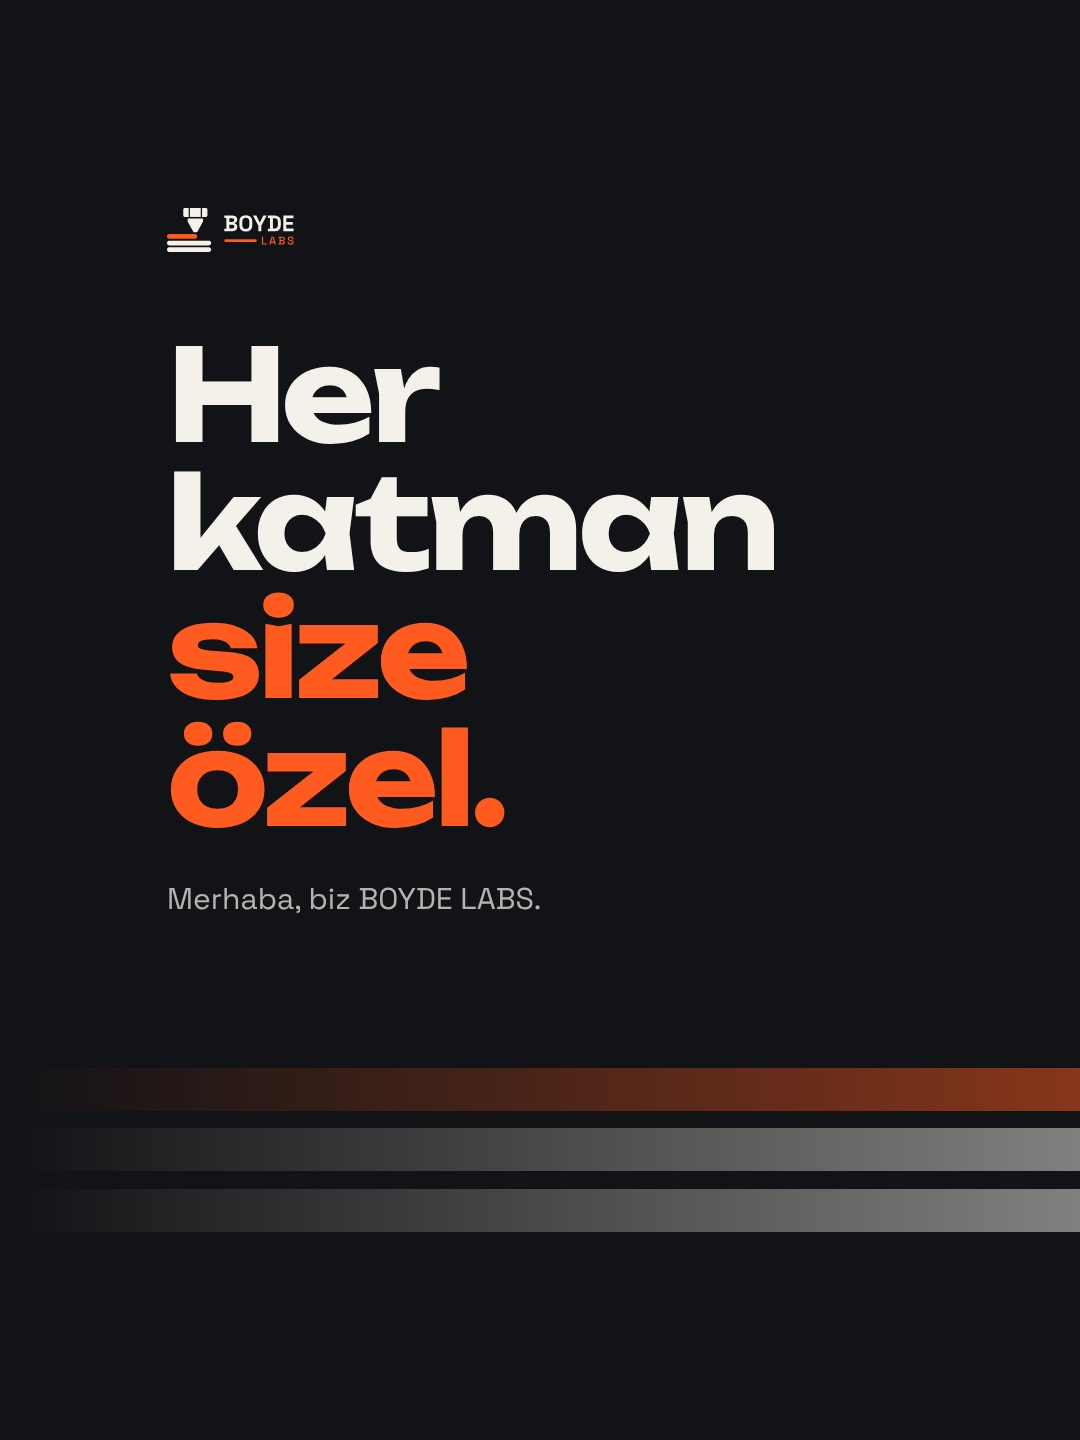
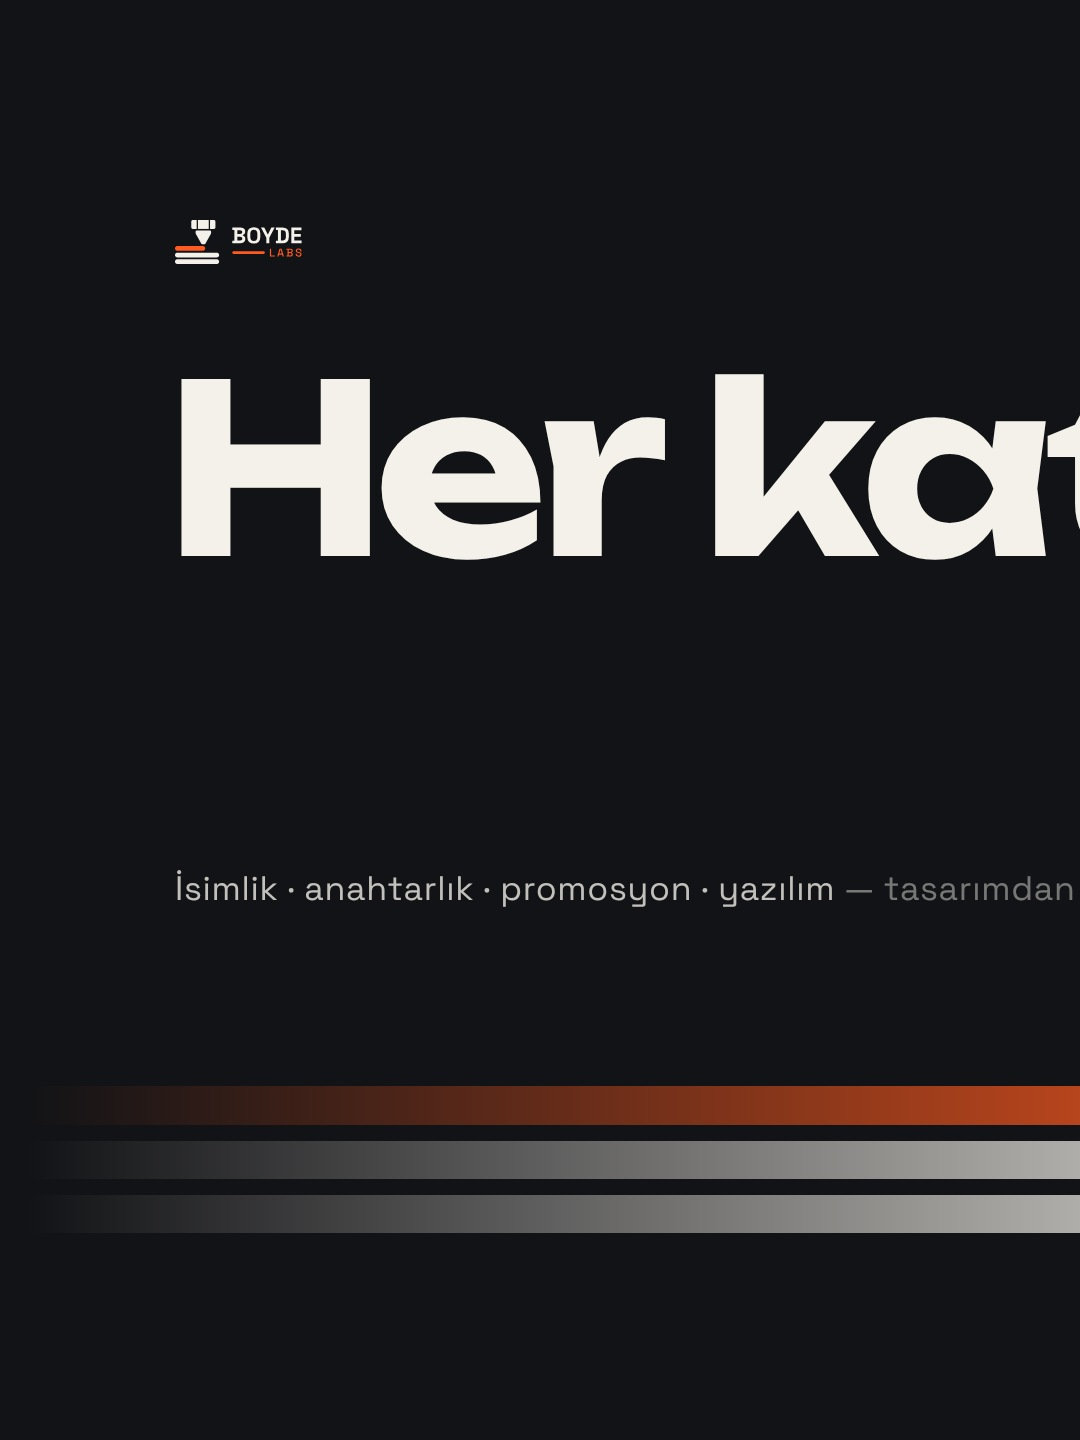
Instagram tanıtım: tek tuvalli ızgara bulmacası; cümle kareler arasından geçer
Claude-Session: https://claude.ai/code/session_01DYSZWrkNx3UmjJ19VqHJCk

diff --git a/scripts/boyde_instagram_panorama.py b/scripts/boyde_instagram_panorama.py
@@ -1,18 +1,17 @@
-"""BOYDE LABS Instagram: markanın genel tanıtımı, 3 kareli kaydırmalı gönderi (yan yana tek görsel, panorama).
+"""BOYDE LABS Instagram: markanın genel tanıtımı, profil ızgarasında yan yana birleşen 3 gönderi (ızgara bulmacası).
 
-Logodaki katmanlar üç karenin altından boydan boya geçer (Shopier "hakkında" görselindeki gibi); en üstteki turuncu
-katman 3. karede nozulun altında biter. Kaydırdıkça katmanlar kareden kareye devam eder.
-Kullanıcı: fotoğrafsız, sade, büyük yazılar, tek bir anlatım; "Her katman size özel". Kareler profil ızgarasında yan
-yana (üç ayrı gönderi, ızgara bulmacası) birleşir. Ekran görüntüsünde Instagram yüklerken kare (1:1) kırpmış, ızgara da
-onun ortasından 3:4 almış: her karenin ortadaki 810 × 1080'i görünüyor. Bu yüzden yazılar, logo ve nozul her karenin
-GUVENLI alanında (x 135–945, y 180–1260); 3:4 yüklense de kare kırpılsa da ızgarada kesilmez. Katmanlar boydan boya:
-  1. kare: Her katman / size özel. · Merhaba, biz BOYDE LABS.
-  2. kare: İsimlik, / anahtarlık, / promosyon, / yazılım. · Baskıdan web sitesine; işletmenize özel.
-  3. kare: Tasarımdan / 3D baskıya. · Kendi atölyemizde. · Shopier, DM, telefon · nozul
-Izgarada en yeni gönderi solda: önce 3. kare, sonra 2., en son 1. kare paylaşılır.
+Kullanıcı: fotoğrafsız, sade, büyük yazılar, tek bir anlatım: "Her katman size özel"; yazılım da yazılsın. Önceki
+sürümde her karede ayrı yazı vardı, kareler yalnız alttaki katmanlarla birleşiyordu ("çok birleşik değil"). Şimdi tek
+bir tuval: büyük cümle iki satır hâlinde karelerin arasından geçer, katmanlar boydan boya akar, nozul 3. karede.
+
+Izgara: Instagram yüklerken kare (1:1) kırpıyor, ızgara onun ortasından 3:4 alıyor; her karenin ortadaki 810 × 1080'i
+görünür (x 135–945, y 180–1260). Tuval, ızgarada görünen üç bölge kesintisiz yan yana gelecek biçimde çizilir
+(2430 × 1080 görünen bant); her kare tuvalden 1080 × 1440 kesilir, kenar payında komşu karenin devamı görünür. Böylece
+ızgarada cümle ve katmanlar kareden kareye birebir akar; tek tek açınca da kesik durmaz.
+Not: üç gönderide de aynı kırpma (kare) seçilmeli. Izgarada en yeni gönderi solda: önce 3. kare, en son 1. kare.
 
 Kullanım: python3 scripts/boyde_instagram_panorama.py
-Çıktı: boyde_labs/instagram/tanitim_panorama/{panorama.jpg, kare_1..3.jpg}
+Çıktı: boyde_labs/instagram/tanitim_panorama/{kare_1..3.jpg, izgara.jpg (ızgaradaki görünüş)}
 """
 import os
 import sys
@@ -22,69 +21,71 @@ import boyde_katalog as K  # noqa: E402
 import boyde_marka as BM  # noqa: E402
 
 ROOT = os.path.dirname(os.path.dirname(os.path.abspath(__file__)))
-LABS = os.path.join(ROOT, "boyde_labs")
-OUT = os.path.join(LABS, "instagram", "tanitim_panorama")
-W, H, KARE = 3240, 1440, 1080
-INK, PAPER, ORANGE, CHAR = BM.INK, BM.PAPER, BM.ORANGE, BM.CHAR
-GX0, GY0, GX1, GY1 = 135, 180, 945, 1260            # güvenli alan (karenin içinde): ızgarada görünen kısım
-SOL = GX0 + 32                                      # yazıların sol hizası
-UST = GY0 + 150                                     # büyük yazıların üst hizası: üç karede aynı
+OUT = os.path.join(ROOT, "boyde_labs", "instagram", "tanitim_panorama")
+KW, KH = 1080, 1440                                   # bir kare (3:4)
+GX, GY, GW, GH = 135, 180, 810, 1080                  # karenin ızgarada görünen kısmı
+CW, CH = 3 * GW + 2 * GX, KH                          # tuval: görünen bant 135..2565, üstte ve altta pay
+X0, X1, Y0, Y1 = GX, GX + 3 * GW, GY, GY + GH         # görünen bant (tuvalde)
+INK, PAPER, ORANGE = BM.INK, BM.PAPER, BM.ORANGE
+SATIR1 = ("Her katman", PAPER)
+SATIR2 = ("size özel.", ORANGE)
+BOY = 236                                             # büyük cümlenin punto boyu
 
 
 def katmanlar():
-    """Nozul 3. karede sağda; katmanları sola, ilk karenin başına kadar uzar. (wide_graphic'in katmanlı biçimi.)"""
+    """Logodaki katmanlar tuvalin solundan akar; en üstteki turuncu, 3. karede nozulun altında biter."""
     n = K.LOGO
     sim, sw, sh = BM.lockup(n, "simge", "koyu")
     mark = BM.DIRS[n][2]
     _, (_, y0, _, y1) = mark()
     rows = mark.rows
-    ih = 400
+    ih = 360
     iw = ih * sw / sh
     k = ih / (y1 - y0)
-    top = GY1 - 50 - (rows[-1][0] - y0) * k                 # en alttaki katman güvenli alanın içinde
-    left = 2 * KARE + GX1 - 10 - iw                          # nozul 3. karenin güvenli alanında
+    top = Y1 - 46 - (rows[-1][0] - y0) * k
+    left = X1 - 24 - iw
     bars = "".join(
         f'<i style="position:absolute;left:-40px;width:{left + 40 + h * k:.0f}px;top:{top + (yc - y0 - h / 2) * k:.1f}px;'
-        f'height:{h * k:.1f}px;background:linear-gradient(90deg,transparent 2%,rgba({BM._rgb(ORANGE if r == "accent" else PAPER)},'
-        f'1) 80%)"></i>' for yc, h, r in rows)
+        f'height:{h * k:.1f}px;background:linear-gradient(90deg,transparent 3%,rgba({BM._rgb(ORANGE if r == "accent" else PAPER)},'
+        f'1) 70%)"></i>' for yc, h, r in rows)
     return (f'{bars}<div style="position:absolute;left:{left:.0f}px;top:{top:.0f}px">'
-            f'{BM.inline(sim, height=f"{ih}px")}</div>'), top
+            f'{BM.inline(sim, height=f"{ih}px")}</div>'), top, left
 
 
-def panorama():
-    lay, _ = katmanlar()
-
-    def blok(x, satirlar, alt, boy, ek=""):
-        """Büyük yazı (UST hizasında) ve altında kısa satır; hepsi güvenli alanda. satirlar: [(metin, renk)]."""
-        h = "".join(f'<span style="display:block;color:{c}">{t}</span>' for t, c in satirlar)
-        return f"""<div style="position:absolute;left:{x + SOL}px;top:{UST}px;width:{GX1 - SOL}px">
-          <h1 class="u" style="font-size:{boy}px;line-height:1.0;font-weight:700;letter-spacing:-.035em">{h}</h1>
-          <p style="margin-top:36px;font-size:30px;line-height:1.4;color:rgba(244,241,234,.72)">{alt}</p>{ek}</div>"""
-
-    return f"""<div style="position:relative;width:{W}px;height:{H}px;overflow:hidden;background:{INK};color:{PAPER}">
+def tuval():
+    lay, nozul_top, nozul_left = katmanlar()
+    h1 = f"font-size:{BOY}px;line-height:1;font-weight:700;letter-spacing:-.04em;white-space:nowrap"
+    return f"""<div style="position:relative;width:{CW}px;height:{CH}px;overflow:hidden;background:{INK};color:{PAPER}">
       {lay}
-      <div style="position:absolute;left:{SOL}px;top:{GY0 + 28}px">{K.logo("koyu", 420, 44)}</div>
-      {blok(0, [("Her", PAPER), ("katman", PAPER), ("size", ORANGE), ("özel.", ORANGE)],
-            "Merhaba, biz BOYDE LABS.", 128)}
-      {blok(KARE, [("İsimlik,", PAPER), ("anahtarlık,", PAPER), ("promosyon,", PAPER), ("yazılım.", PAPER)],
-            "Baskıdan web sitesine;<br>işletmenize özel.", 96)}
-      {blok(2 * KARE, [("Tasarımdan", PAPER), ("3D baskıya.", PAPER)], "Kendi atölyemizde.", 96,
-            f'''<p style="margin-top:30px;font-size:26px;line-height:1.6;color:rgba(244,241,234,.6)">Shopier · DM<br>
-            <b style="color:{PAPER};font-size:32px">{K.TEL}</b></p>''')}
+      <div style="position:absolute;left:{X0 + 40}px;top:{Y0 + 40}px">{K.logo("koyu", 420, 44)}</div>
+      <p style="position:absolute;right:{CW - X1 + 40}px;top:{Y0 + 46}px;font-size:24px;font-weight:700;
+        letter-spacing:.16em;color:rgba(244,241,234,.6)">SHOPIER · DM · {K.TEL}</p>
+      <h1 class="u" style="position:absolute;left:{X0 + 30}px;top:{Y0 + 170}px;{h1};color:{SATIR1[1]}">{SATIR1[0]}</h1>
+      <h1 class="u" style="position:absolute;right:{CW - X1 + 30}px;top:{Y0 + 170 + BOY * 1.02:.0f}px;{h1};
+        color:{SATIR2[1]}">{SATIR2[0]}</h1>
+      <p style="position:absolute;left:{X0 + 40}px;top:{Y0 + 170 + BOY * 2.02 + 40:.0f}px;font-size:34px;
+        letter-spacing:.02em;color:rgba(244,241,234,.78)">İsimlik · anahtarlık · promosyon · yazılım
+        <span style="color:rgba(244,241,234,.45)">— tasarımdan 3D baskıya, kendi atölyemizde.</span></p>
     </div>"""
 
 
 def main():
     from PIL import Image
     os.makedirs(OUT, exist_ok=True)
-    png = os.path.join(OUT, "panorama.png")
+    for f in os.listdir(OUT):
+        os.remove(os.path.join(OUT, f))
+    png = os.path.join(OUT, "_tuval.png")
     with BM.painter() as P:
-        P.png(panorama(), W, H, png, css=K.CSS)
+        P.png(tuval(), CW, CH, png, css=K.CSS)
     im = Image.open(png).convert("RGB")
-    im.save(os.path.join(OUT, "panorama.jpg"), quality=93)
     os.remove(png)
+    for i in range(3):                                       # i. karenin görünen kısmı tuvalde X0 + i*GW'den başlar
+        im.crop((i * GW, 0, i * GW + KW, KH)).save(os.path.join(OUT, f"kare_{i + 1}.jpg"), quality=93)
+    # ızgaradaki görünüş: her kareden ortadaki 810 × 1080, aralarında 3 px
+    g = Image.new("RGB", (3 * GW + 6, GH), (0, 0, 0))
     for i in range(3):
-        im.crop((i * KARE, 0, (i + 1) * KARE, H)).save(os.path.join(OUT, f"kare_{i + 1}.jpg"), quality=93)
+        g.paste(Image.open(os.path.join(OUT, f"kare_{i + 1}.jpg")).crop((GX, GY, GX + GW, GY + GH)), (i * (GW + 3), 0))
+    g.save(os.path.join(OUT, "izgara.jpg"), quality=90)
     print("yazıldı:", os.path.relpath(OUT, ROOT))
 
 
